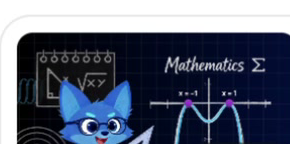
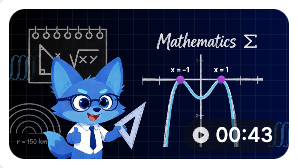
Refine step solution sample media

diff --git a/index.html b/index.html
@@ -335,7 +335,6 @@
     .citation-selector-button { height:38px; display:inline-flex; align-items:center; justify-content:center; gap:6px; padding:0 10px; border:0; border-radius:11px; background:transparent; color:var(--muted); font:600 11px/1 inherit; white-space:nowrap; cursor:pointer; }
     .citation-selector-button:hover,
     .citation-selector-button[aria-expanded="true"] { background:var(--surface-hover); color:var(--text); }
-    .citation-selector-prefix { color:var(--subtle); font-weight:520; }
     .citation-selector-value { color:currentColor; font-weight:680; }
     .citation-selector-button .icon { width:14px; height:14px; }
     .citation-dropdown-menu { position:absolute; z-index:30; top:46px; right:0; width:200px; padding:7px; border:1px solid var(--line); border-radius:14px; background:var(--surface); box-shadow:var(--shadow); transform-origin:top right; }
@@ -1033,18 +1032,13 @@
     .example-dialog[data-mode="step-solution"] .dialog-body { position:relative; background:#fff; }
     .recording-answer-page { color:#20242a; }
     .recording-question-image { width:min(62%,560px); max-height:330px; display:block; margin:0 0 18px auto; object-fit:contain; border-radius:14px; }
-    .recording-thought { display:flex; align-items:center; gap:8px; padding:0; border:0; background:transparent; color:#2a2e35; font-size:12px; cursor:pointer; }
-    .recording-thought span:nth-of-type(2) { color:#707783; }
-    .recording-ai-badge { width:24px; height:24px; display:grid; place-items:center; border-radius:7px; background:linear-gradient(145deg,#4438d6,#765af0); color:#fff !important; font-size:9px; font-weight:800; box-shadow:inset -4px -4px 0 rgba(255,196,30,.22); }
-    .recording-thought-panel { margin:10px 0 2px 32px; padding:10px 12px; border-left:2px solid #6c55e7; border-radius:0 9px 9px 0; background:#f7f5ff; color:#636b78; font-size:10px; line-height:1.5; }
-    .recording-final-title { margin:19px 0 12px; color:#35c41d; font-size:20px; }
+    .recording-final-title { margin:0 0 12px; color:#35c41d; font-size:20px; }
     .recording-final-card { display:grid; gap:9px; padding:17px 18px; border-radius:14px; background:#f4fff4; color:#171b21; font-size:13px; line-height:1.2; }
     .recording-final-card strong { margin-bottom:2px; }
     .recording-final-card b { font-size:14px; }
     .recording-video-card { display:grid; grid-template-columns:145px minmax(0,1fr) auto; align-items:center; gap:14px; margin-top:16px; padding:11px; border:1px solid #e0e3e8; border-radius:15px; background:#fff; }
-    .recording-video-thumb { position:relative; overflow:hidden; aspect-ratio:290 / 144; border-radius:10px; background:#fff; }
+    .recording-video-thumb { position:relative; overflow:hidden; aspect-ratio:298 / 168; border-radius:10px; background:#fff; }
     .recording-video-thumb img { width:100%; height:100%; display:block; object-fit:contain; object-position:center; }
-    .recording-video-thumb span { position:absolute; right:7px; bottom:6px; padding:3px 5px; border-radius:5px; background:rgba(12,17,28,.72); color:#fff; font-size:8px; font-weight:700; }
     .recording-video-card strong { display:block; color:#20242a; font-size:12px; }
     .recording-video-card p { display:-webkit-box; overflow:hidden; margin:5px 0 0; color:#747b87; font-size:9px; line-height:1.45; -webkit-box-orient:vertical; -webkit-line-clamp:2; }
     .recording-video-action { min-width:112px; height:38px; display:inline-flex; align-items:center; justify-content:center; border:1px solid #dfe3e8; border-radius:20px; background:#fff; color:#20242a; font-size:10px; font-weight:750; }
@@ -1841,7 +1835,6 @@
       .model-button > span:not(.brand-mini) { display: none; }
       .model-button { padding: 0 7px; }
       .citation-selector-button { padding:0 7px; }
-      .citation-selector-prefix { display:none; }
       .citation-dropdown-menu { width:184px; }
       .send-button { min-width: 42px; width: 42px; padding: 0; }
       .send-button span { display: none; }
@@ -2082,7 +2075,7 @@
             <output class="writing-word-count" id="writingWordCount" aria-label="Word count" hidden>0 words</output>
             <div class="citation-selectors" id="citationSelectors" aria-label="Citation settings" hidden>
               <div class="citation-dropdown">
-                <button class="citation-selector-button" id="citationFormatButton" type="button" data-citation-trigger="format" aria-haspopup="menu" aria-expanded="false" aria-controls="citationFormatMenu"><span class="citation-selector-prefix">Format</span><span class="citation-selector-value" id="citationFormatLabel">APA 7th</span><svg class="icon"><use href="#i-chevron"/></svg></button>
+                <button class="citation-selector-button" id="citationFormatButton" type="button" data-citation-trigger="format" aria-haspopup="menu" aria-expanded="false" aria-controls="citationFormatMenu"><span class="citation-selector-value" id="citationFormatLabel">APA 7th</span><svg class="icon"><use href="#i-chevron"/></svg></button>
                 <div class="citation-dropdown-menu" id="citationFormatMenu" role="menu" aria-label="Citation format" hidden>
                   <p class="model-menu-title">Format</p>
                   <button class="model-option active" type="button" role="menuitemradio" aria-checked="true" data-citation-option="format" data-citation-value="APA 7th"><span class="model-letter">A</span><span><strong>APA 7th</strong></span><span class="model-check">✓</span></button>
@@ -2095,7 +2088,7 @@
                 </div>
               </div>
               <div class="citation-dropdown">
-                <button class="citation-selector-button" id="citationSourceTypeButton" type="button" data-citation-trigger="sourceType" aria-haspopup="menu" aria-expanded="false" aria-controls="citationSourceTypeMenu"><span class="citation-selector-prefix">Source type</span><span class="citation-selector-value" id="citationSourceTypeLabel">Website</span><svg class="icon"><use href="#i-chevron"/></svg></button>
+                <button class="citation-selector-button" id="citationSourceTypeButton" type="button" data-citation-trigger="sourceType" aria-haspopup="menu" aria-expanded="false" aria-controls="citationSourceTypeMenu"><span class="citation-selector-value" id="citationSourceTypeLabel">Website</span><svg class="icon"><use href="#i-chevron"/></svg></button>
                 <div class="citation-dropdown-menu" id="citationSourceTypeMenu" role="menu" aria-label="Citation source type" hidden>
                   <p class="model-menu-title">Source type</p>
                   <button class="model-option active" type="button" role="menuitemradio" aria-checked="true" data-citation-option="sourceType" data-citation-value="Website"><span class="model-letter">W</span><span><strong>Website</strong></span><span class="model-check">✓</span></button>
@@ -3201,12 +3194,10 @@
     function solverStepSolutionDialogPreview() {
       return `<div class="recording-answer-page" data-solver-answer>
         <img class="recording-question-image" src="assets/solver-parallelogram-question.png" alt="Geometry problem asking to solve for r in parallelogram LMNO" />
-        <button class="recording-thought" type="button" data-solver-thought aria-expanded="false"><span class="recording-ai-badge">S</span><strong>Solvely AI</strong><span>thought for 8s</span><span aria-hidden="true">⌄</span></button>
-        <div class="recording-thought-panel" data-solver-thought-panel hidden>I identified opposite and consecutive angle relationships, solved for t first, then used the supplementary angles to solve for r.</div>
         <h3 class="recording-final-title">Final Answer</h3>
         <section class="recording-final-card"><strong>1.</strong><span>A. 15</span><span>B. 25</span><b>✓ C. 30</b><span>D. 120</span></section>
         <section class="recording-video-card">
-          <div class="recording-video-thumb"><img src="assets/solver-parallelogram-video.png" alt="Parallelogram angle properties video thumbnail" /><span>▶ 00:43</span></div>
+          <div class="recording-video-thumb"><img src="assets/solver-parallelogram-video.png" alt="Mathematics video thumbnail with a blue cat and parabola graph" /></div>
           <div><strong>Video Explanation: Solve Parallelogram Angle Properties...</strong><p>Observe how consecutive interior angles sum to 180 degrees in this geometric breakdown. Watch the algebraic relationship between variables unfold as we isolate r.</p></div>
           <span class="recording-video-action">▶ Watch Now</span>
         </section>
@@ -4251,16 +4242,6 @@
       interaction.querySelectorAll('[data-solution-step]').forEach(step => step.addEventListener('click', () => {
         interaction.querySelectorAll('[data-solution-step]').forEach(item => item.classList.toggle('active', item === step));
       }));
-      const solverAnswer = document.querySelector('#dialogPreview [data-solver-answer]');
-      if (solverAnswer) {
-        const thoughtButton = solverAnswer.querySelector('[data-solver-thought]');
-        const thoughtPanel = solverAnswer.querySelector('[data-solver-thought-panel]');
-        thoughtButton.addEventListener('click', () => {
-          const expanded = thoughtButton.getAttribute('aria-expanded') === 'true';
-          thoughtButton.setAttribute('aria-expanded', String(!expanded));
-          thoughtPanel.hidden = expanded;
-        });
-      }
     }
 
     const examPrepFeatureDetails = [
